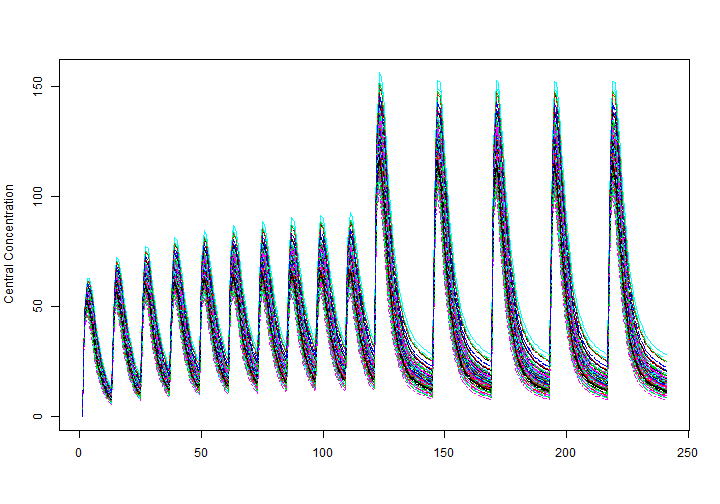
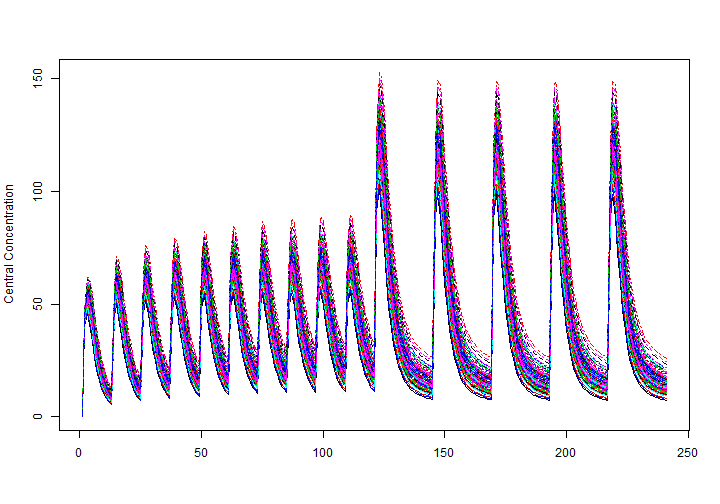
Update FOCEI for dEta.dTheta update

diff --git a/src/focei.cpp b/src/focei.cpp
@@ -884,8 +884,9 @@ NumericVector rxOuter(SEXP rho){
   return ret;
 }
 
+//' @export
 // [[Rcpp::export]]
-NumericVector rxUpdateEtas(SEXP DnDhS, SEXP DhS, SEXP initS){
+NumericVector rxUpdateEtas(SEXP DnDhS, SEXP DhS, SEXP initS, SEXP acceptNS){
   int i = 0;
   uword j = 0;
   List DnDh = as<List>(DnDhS); // e["dEta.dTheta"]
@@ -893,11 +894,22 @@ NumericVector rxUpdateEtas(SEXP DnDhS, SEXP DhS, SEXP initS){
   mat inits = as<mat>(initS); // e["inits.mat"]
   mat cur;
   mat prod;
+  double acceptN = as<double>(acceptNS);
+  int accept;
   for (i = 0; i < DnDh.size(); i++){
     cur = as<mat>(DnDh[i]);
     prod = cur * Dh;
+    accept = 1;
     for (j = 0; j < prod.n_rows; j++){
-      inits(i, j) += prod(j, 0);
+      if (abs(prod(j,0)+inits(i, j)) > acceptN){
+	accept = 0;
+	break;
+      }
+    }
+    if (accept){
+      for (j = 0; j < prod.n_rows; j++){
+        inits(i, j) += prod(j, 0);
+      }
     }
   }
   NumericVector ret = as<NumericVector>(wrap(inits));

diff --git a/src/RcppExports.cpp b/src/RcppExports.cpp
@@ -138,15 +138,16 @@ BEGIN_RCPP
 END_RCPP
 }
 // rxUpdateEtas
-NumericVector rxUpdateEtas(SEXP DnDhS, SEXP DhS, SEXP initS);
-RcppExport SEXP RxODE_rxUpdateEtas(SEXP DnDhSSEXP, SEXP DhSSEXP, SEXP initSSEXP) {
+NumericVector rxUpdateEtas(SEXP DnDhS, SEXP DhS, SEXP initS, SEXP acceptNS);
+RcppExport SEXP RxODE_rxUpdateEtas(SEXP DnDhSSEXP, SEXP DhSSEXP, SEXP initSSEXP, SEXP acceptNSSEXP) {
 BEGIN_RCPP
     Rcpp::RObject rcpp_result_gen;
     Rcpp::RNGScope rcpp_rngScope_gen;
     Rcpp::traits::input_parameter< SEXP >::type DnDhS(DnDhSSEXP);
     Rcpp::traits::input_parameter< SEXP >::type DhS(DhSSEXP);
     Rcpp::traits::input_parameter< SEXP >::type initS(initSSEXP);
-    rcpp_result_gen = Rcpp::wrap(rxUpdateEtas(DnDhS, DhS, initS));
+    Rcpp::traits::input_parameter< SEXP >::type acceptNS(acceptNSSEXP);
+    rcpp_result_gen = Rcpp::wrap(rxUpdateEtas(DnDhS, DhS, initS, acceptNS));
     return rcpp_result_gen;
 END_RCPP
 }
